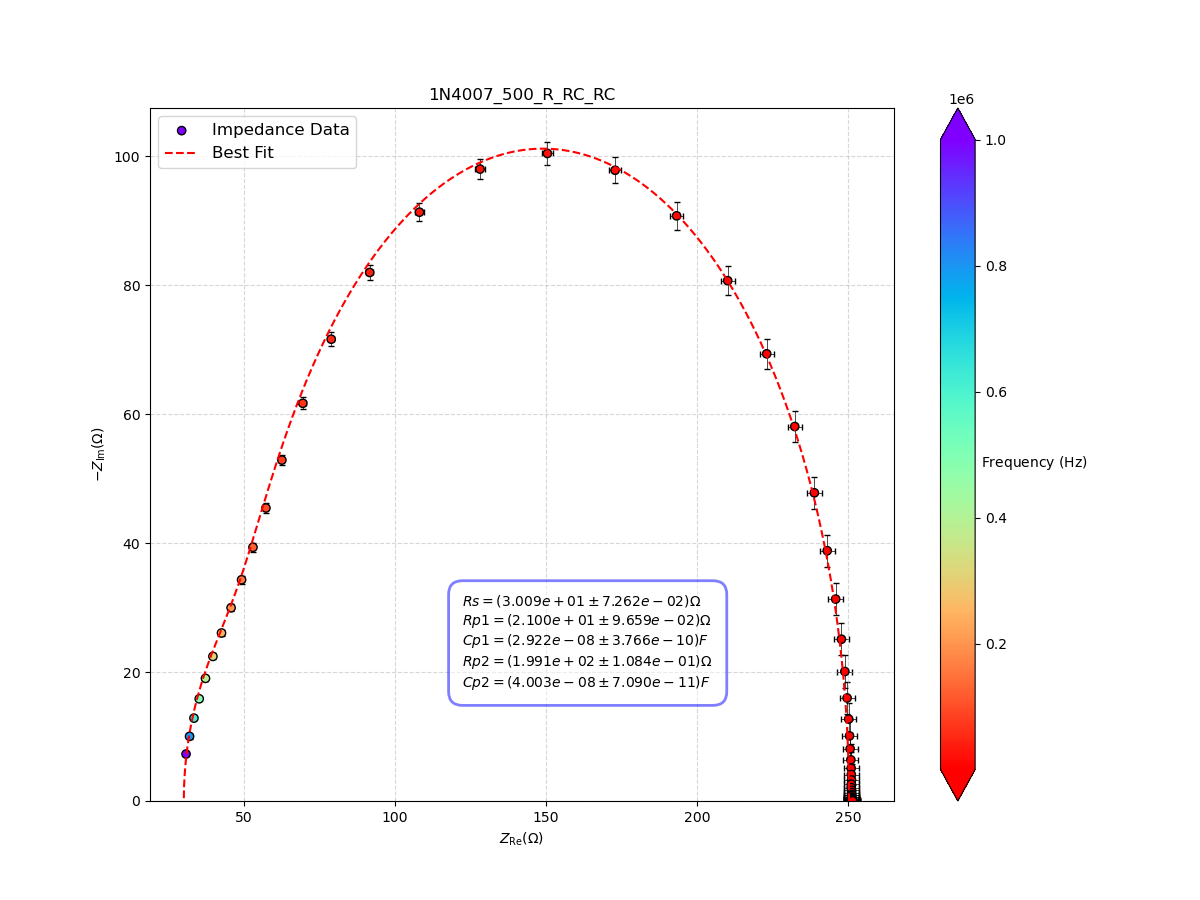
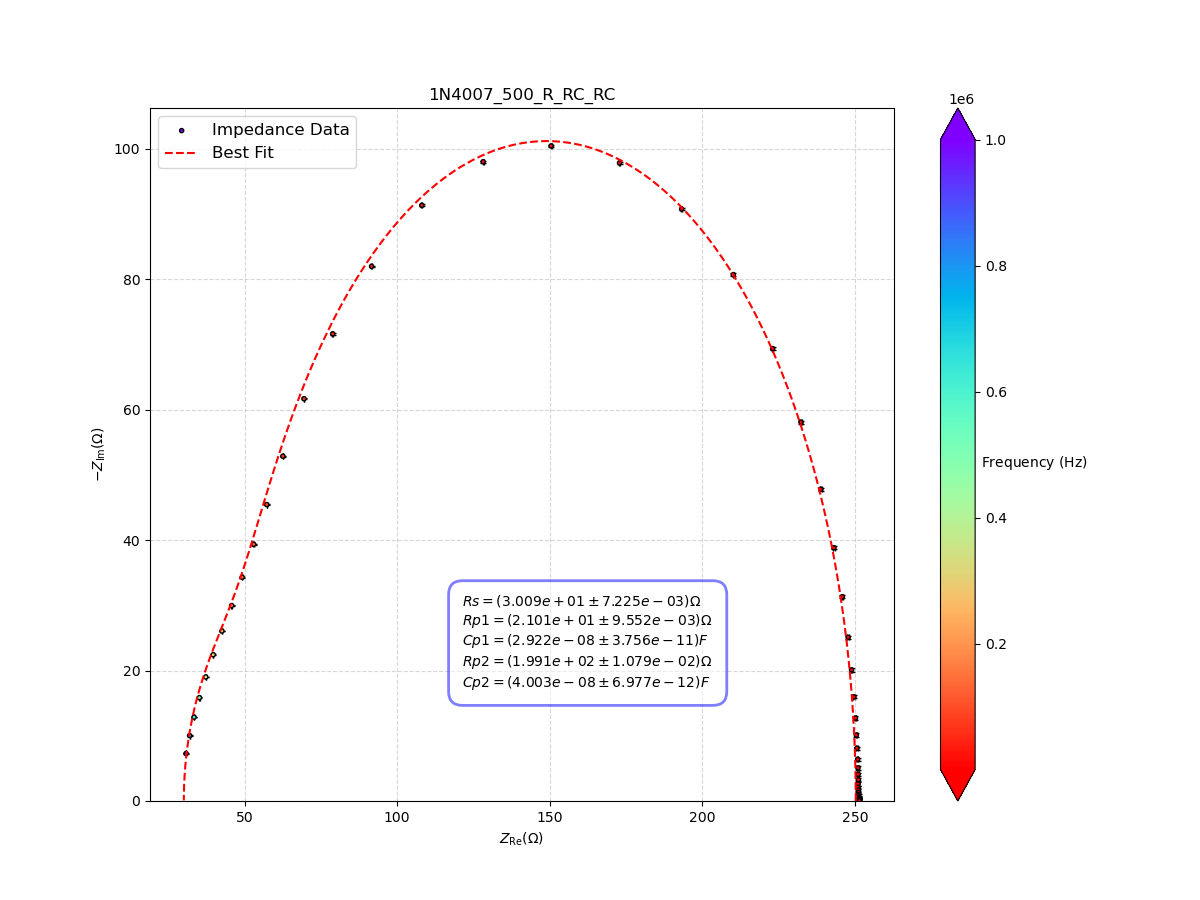
lil commit

diff --git a/plot.py b/plot.py
@@ -9,7 +9,7 @@ def plot_impedance_fit(x, data, x_fit, data_fit, params, model, title="Impedance
     scatter = ax.scatter(
         data.real, -data.imag,
         label="Impedance Data", c=x, cmap='rainbow_r', ec='k',
-        vmin=1, vmax=1e6, zorder=2
+        vmin=1, vmax=1e6, zorder=2, marker='.'
     )
     xerr = yerr = 0.01 * np.abs(data)
     ax.errorbar(
